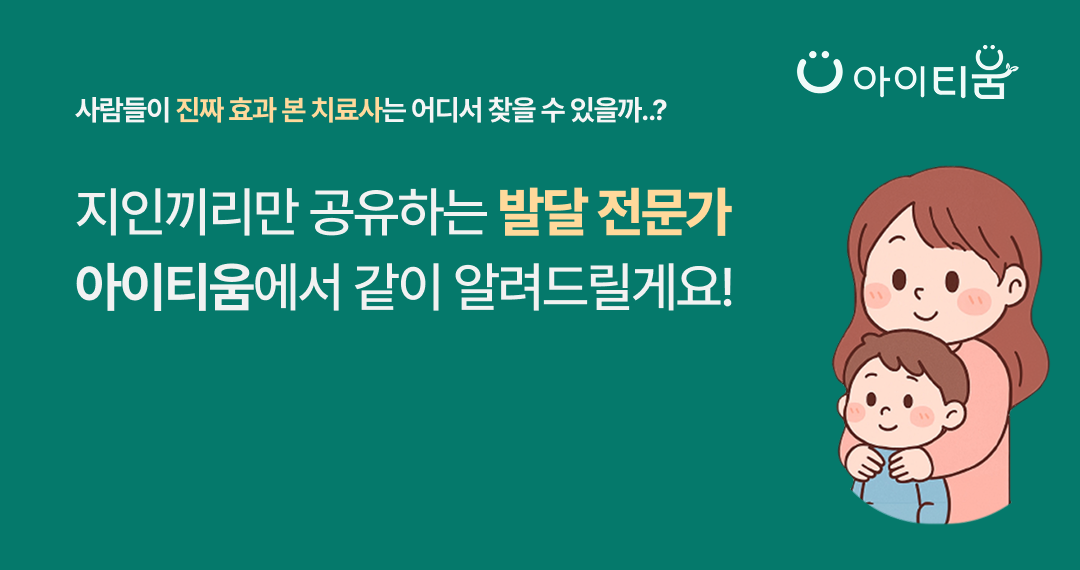
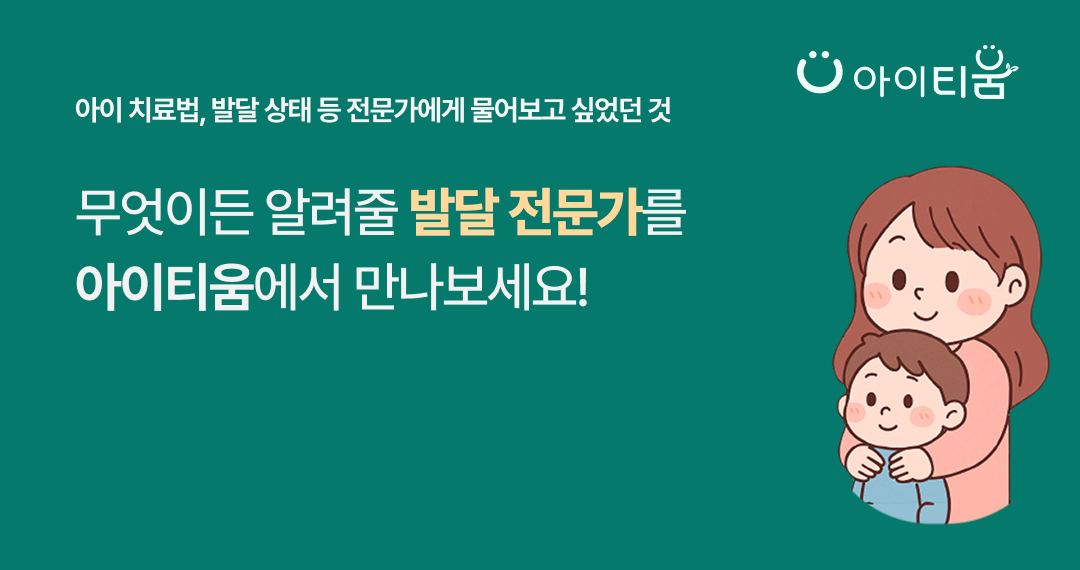
Add files via upload

Changed region(s): [[0.0611, 0.3281, 0.6722, 0.4175], [0.0611, 0.1491, 0.6417, 0.2386], [0.3056, 0.4474, 0.7028, 0.5667]]

diff --git a/site2/index.html b/site2/index.html
@@ -66,7 +66,7 @@
       <a href="survey/index.html"
          class="btn-primary section1-btn"
          target="_slef" rel="noopener">
-        딱 맞는 치료사찾기 >
+        발달치료사에게 물어보기 >
       </a>
     </div>
   </section>
@@ -107,7 +107,7 @@
       <a href="survey/index.html"
          class="btn-primary btn-cta"
          target="_slef" rel="noopener">
-        회원가입하기 &gt;
+        상담 시작하기 &gt;
       </a>
     </div>
   </section>
